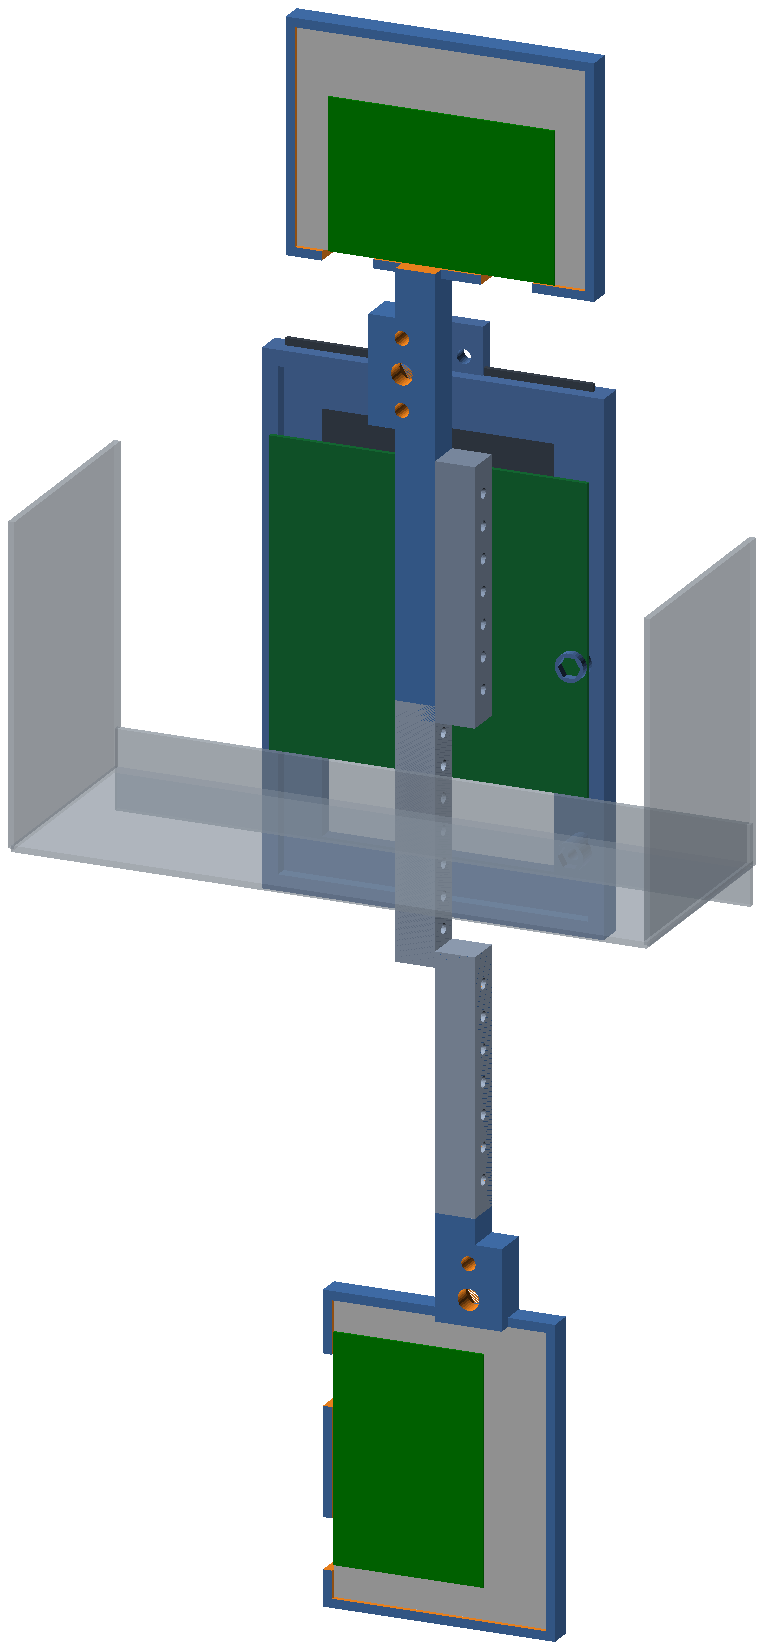
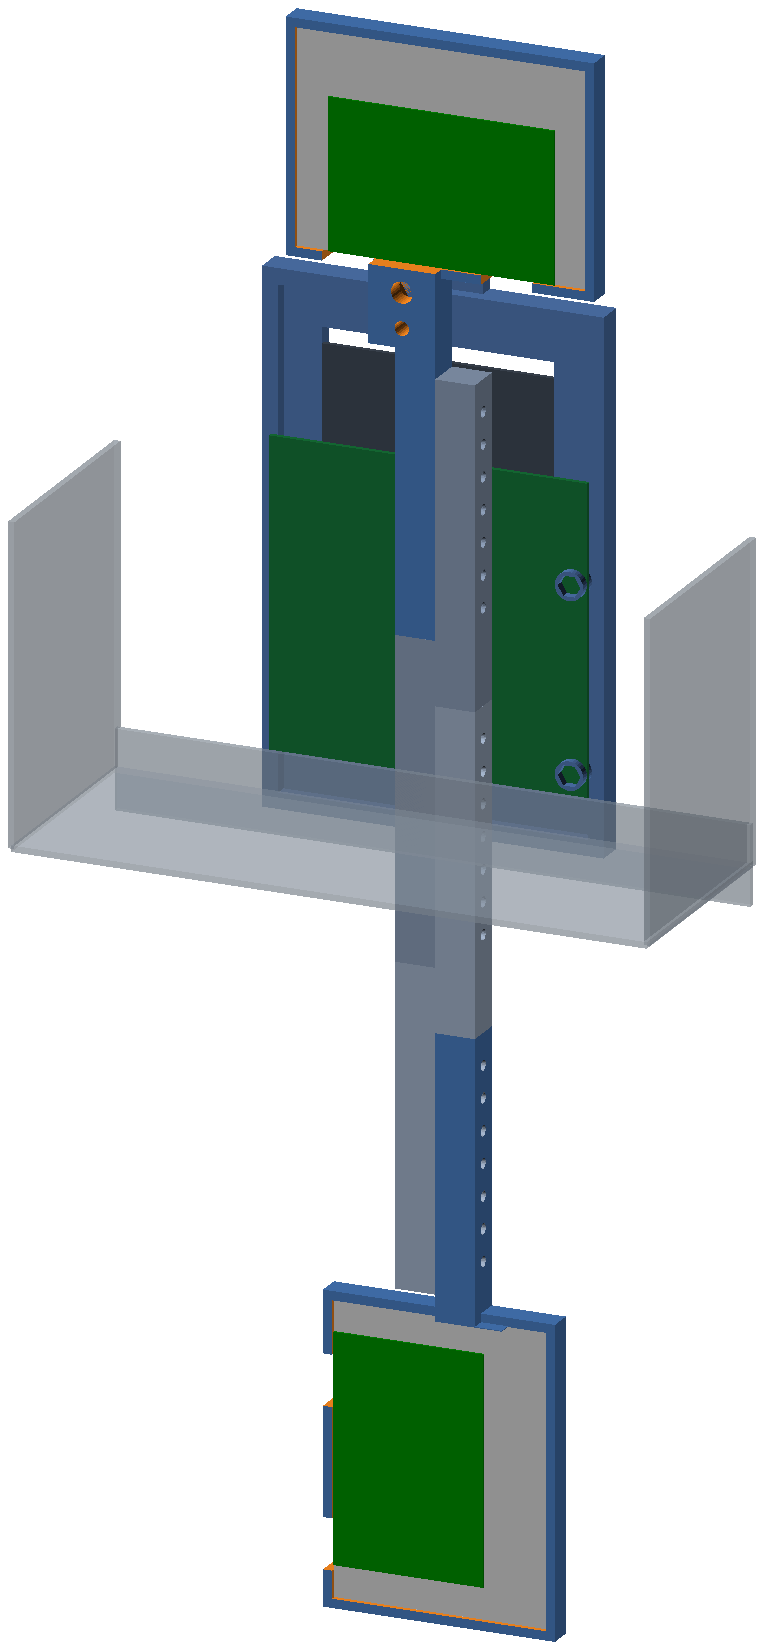
Auto-update: 2026-08-11 10:00:28

diff --git a/design/mk_system.py b/design/mk_system.py
@@ -70,9 +70,9 @@ call((0.455, 0.500), 0.570, "ISOLATION FIN", [
      "worth 16.5 dB, and it blocks nothing the radar looks at",
      "the leak goes round the sides, so folding beats widening"], RED)
 call((0.300, 0.330), 0.380, "THE SPINE", [
-     "two printed halves plus two 155 mm extenders, bolted",
-     "through a lap on a 10 mm hole pitch, so the separation",
-     "can be set anywhere from 370 to 430 mm"])
+     "two printed halves plus two 180 mm extenders, joined",
+     "by three lapped joints on a 10 mm hole pitch, so the",
+     "separation can be set anywhere from 370 to 430 mm"])
 call((0.345, 0.108), 0.170, "RECEIVE ARRAY", [
      "a 47 x 71 mm board on a 67 x 91 mm aluminium plate",
      "two patches one above the other: it measures up-and-down",
